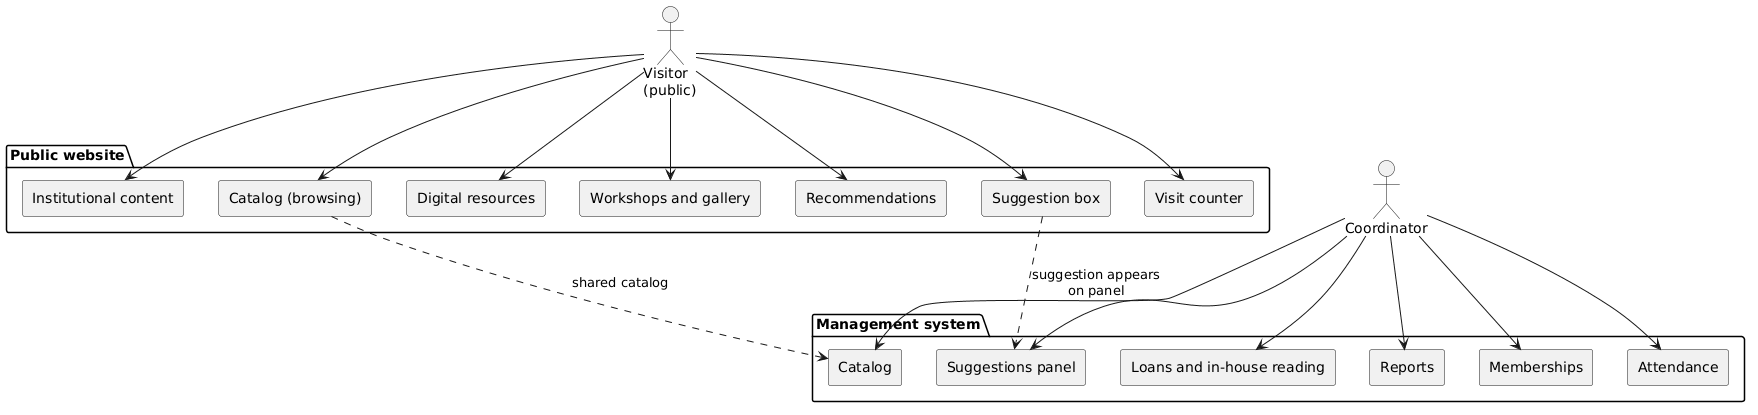
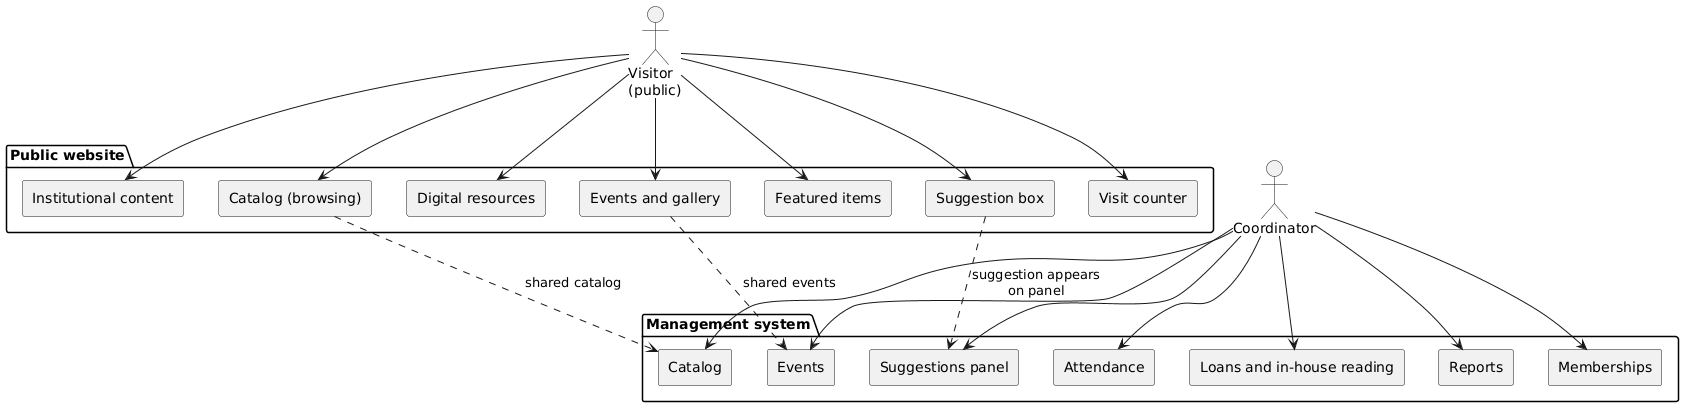
Update library diagrams and enhance event management user stories

diff --git a/docs/requirements/2026-07-06_library_user_stories_requirements.md b/docs/requirements/2026-07-06_library_user_stories_requirements.md
@@ -62,7 +62,12 @@
 - **Validation rules (based on real errors found in the current spreadsheet):**
   - Barcode unique and required for new books; older books without one can be flagged as "pending barcode."
   - Title and author required.
-  - Status controlled by a fixed list: Available / On loan / In-house reading / Lost / Retired.
+  - Status controlled by a fixed enum: Available / On loan / In-house reading / Lost / Retired.
+
+### 2.6 Event management
+- As a coordinator, I want to create and edit events (title, date, start time, end time, description) so they can be published on the public website.
+- As a coordinator, I want to flag an event as featured so it appears in the public website's featured section.
+- **Confirmed with the coordinator/team:** events are created and managed directly from the management system — this is a real module, not static content loaded by the dev team.
 
 ### 2.2 Memberships
 - As a coordinator, I want to register a new member with their personal data so I can lend them books.
@@ -105,5 +110,4 @@
 
 ## 3. Pending / open questions
 
-- Who creates and edits events (date, time, description)? Assumed for now: the development team loads events directly, since the rest of the public website is static. Confirm with the coordinator whether a lightweight "manage events" screen is actually needed.
 - When the Digital resources module (low priority) is actually built, confirm with the coordinator whether to use Gutendex/Open Library as a real integration or just links to the Colombian catalogs.